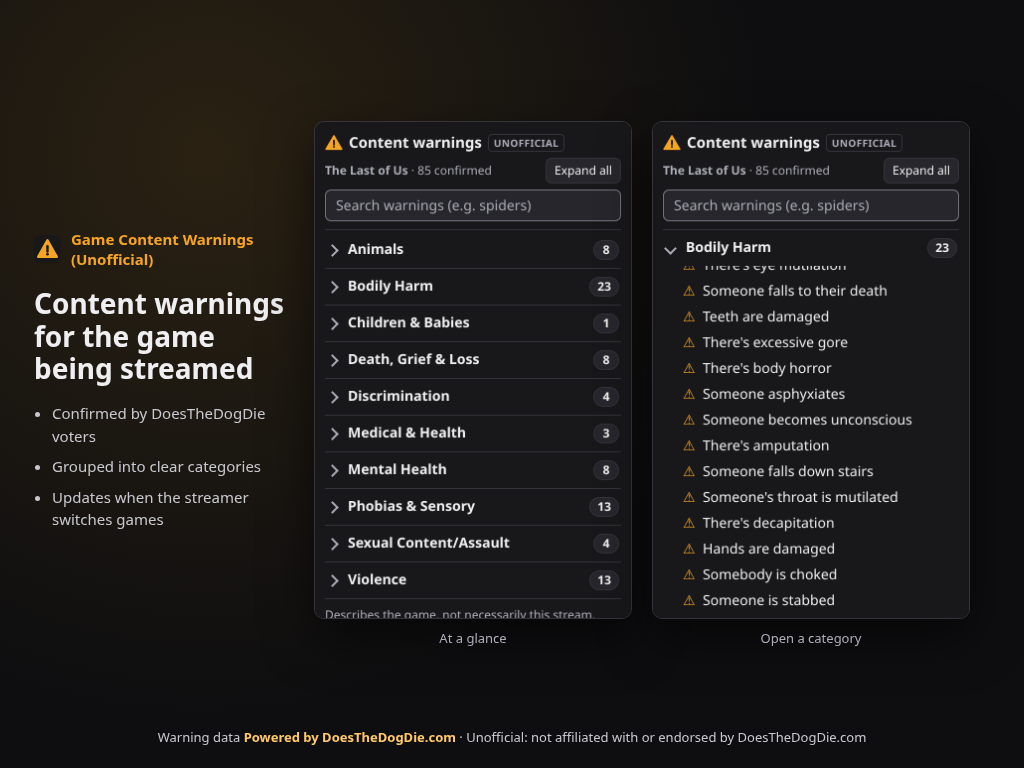
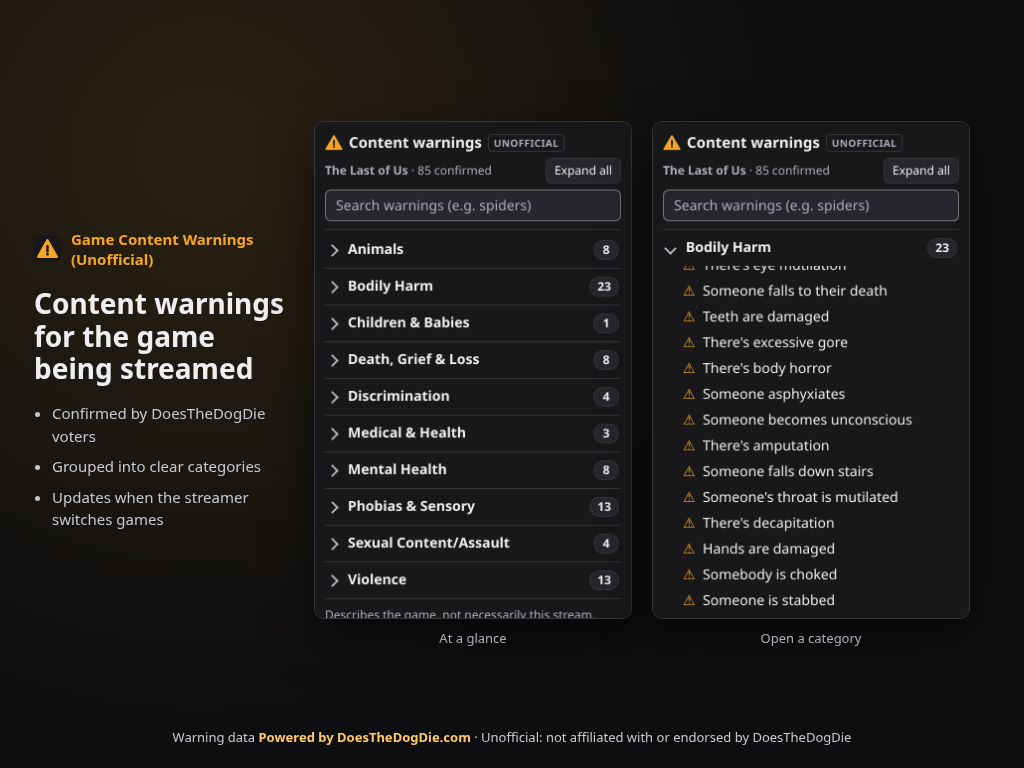
0.1.1: show the DDD domain only in the required credit
The disclaimer, badge tooltip and listing caption now say "DoesTheDogDie";
"Powered by DoesTheDogDie.com" (DDD terms §6, allowed by Twitch 4.9) is
the only place the domain appears. Listing screenshots re-rendered without
the old attribution link. Change log cites guideline 4.9.

Changed region(s): [[0.1562, 0.9375, 0.8438, 0.9688]]

diff --git a/frontend/src/render.ts b/frontend/src/render.ts
@@ -12,12 +12,12 @@ export function attribution(): HTMLElement {
 
 /** "Does the Dog Die?" is DDD's trademark (API terms §5): never state or imply DDD made, reviewed or endorsed this extension. */
 export function disclaimer(): HTMLElement {
-  return el("p", { className: "note disclaimer", text: "Unofficial: not affiliated with or endorsed by DoesTheDogDie.com." });
+  return el("p", { className: "note disclaimer", text: "Unofficial: not affiliated with or endorsed by DoesTheDogDie." });
 }
 
 /** Small "Unofficial" badge shown beside the extension's title. */
 export function unofficialBadge(): HTMLElement {
-  return el("span", { className: "badge", text: "Unofficial", attrs: { title: "Not affiliated with or endorsed by DoesTheDogDie.com" } });
+  return el("span", { className: "badge", text: "Unofficial", attrs: { title: "Not affiliated with or endorsed by DoesTheDogDie" } });
 }
 
 export function capitalize(s: string): string {

diff --git a/scripts/e2e-local.py b/scripts/e2e-local.py
@@ -114,7 +114,7 @@ def main() -> int:
         check("items show just the trigger; freshness line")
 
         expect(page.locator("h1 .badge")).to_have_text("Unofficial")
-        expect(page.locator(".disclaimer")).to_have_text("Unofficial: not affiliated with or endorsed by DoesTheDogDie.com.")
+        expect(page.locator(".disclaimer")).to_have_text("Unofficial: not affiliated with or endorsed by DoesTheDogDie.")
         expect(page.locator(".credits p").last).to_have_text("Powered by DoesTheDogDie.com")
         check("'Unofficial' badge + non-affiliation line; attribution last in the footer")
 

diff --git a/scripts/make-listing-assets.py b/scripts/make-listing-assets.py
@@ -63,7 +63,7 @@ figcaption {{ font-size: 13px; color: #adadb8; }}
 </style></head><body>
 <div class="copy"><div class="brand">{LOGO_SVG}<span>{NAME}</span></div><h1>{title}</h1><ul>{bullets}</ul></div>
 <div class="shots">{imgs}</div>
-<p class="credit">Warning data <b>Powered by DoesTheDogDie.com</b> · Unofficial: not affiliated with or endorsed by DoesTheDogDie.com</p>
+<p class="credit">Warning data <b>Powered by DoesTheDogDie.com</b> · Unofficial: not affiliated with or endorsed by DoesTheDogDie</p>
 </body></html>"""
 
 

diff --git a/docs/CONSOLE.md b/docs/CONSOLE.md
@@ -105,7 +105,7 @@ review channel: the version under review must stay activated there for the whole
 ```
 WALKTHROUGH
 
-What it does: a panel that lists the content warnings DoesTheDogDie.com voters have confirmed for the channel's current game category. Viewers only read it (no input, no accounts, no viewer data stored). It updates by itself when the broadcaster changes category. It is labelled "Unofficial" and states that it is not affiliated with DoesTheDogDie.com.
+What it does: a panel that lists the content warnings DoesTheDogDie.com voters have confirmed for the channel's current game category. Viewers only read it (no input, no accounts, no viewer data stored). It updates by itself when the broadcaster changes category. It is labelled "Unofficial" and states that it is not affiliated with DoesTheDogDie.
 
 Review channel: the extension is installed and activated as a panel on twitch.tv/cyberspaceman_. It is a panel, so the channel does not need to be live. The category will stay on "CONTROL Resonant" during the review so the panel has data to show. If you need the category changed at a set time, email CyberSpaceman09@proton.me.
 
@@ -131,7 +131,8 @@ Technical details:
 CHANGE LOG
 0.1.1: resubmission addressing the 0.1.0 review (guideline 4.5).
 - Removed every link from the extension: the link to the current game's DoesTheDogDie page (panel), the "Check it on DoesTheDogDie" link (configuration page), and the link on the attribution.
-- "Powered by DoesTheDogDie.com" remains as plain, unlinked text. It is the source credit DoesTheDogDie's API terms (section 6) require wherever their data is shown, not a call to action. Their terms only ask for a hyperlink where the medium permits, so on Twitch it is text only.
+- "Powered by DoesTheDogDie.com" remains as plain, unlinked text. It identifies the data source enabling the extension, which guideline 4.9 allows ("powered by X"), and it is the attribution DoesTheDogDie's API terms (section 6) require wherever their data is shown. It is not a call to action: it asks the viewer to do nothing, and there is no link.
+- That credit is the only place the domain appears: the "not affiliated with" disclaimer now just says "DoesTheDogDie".
 - "Allowlisted Panel URLs" and "Allowlisted Config URLs" are now empty.
 0.1.0: initial release.
 ```
